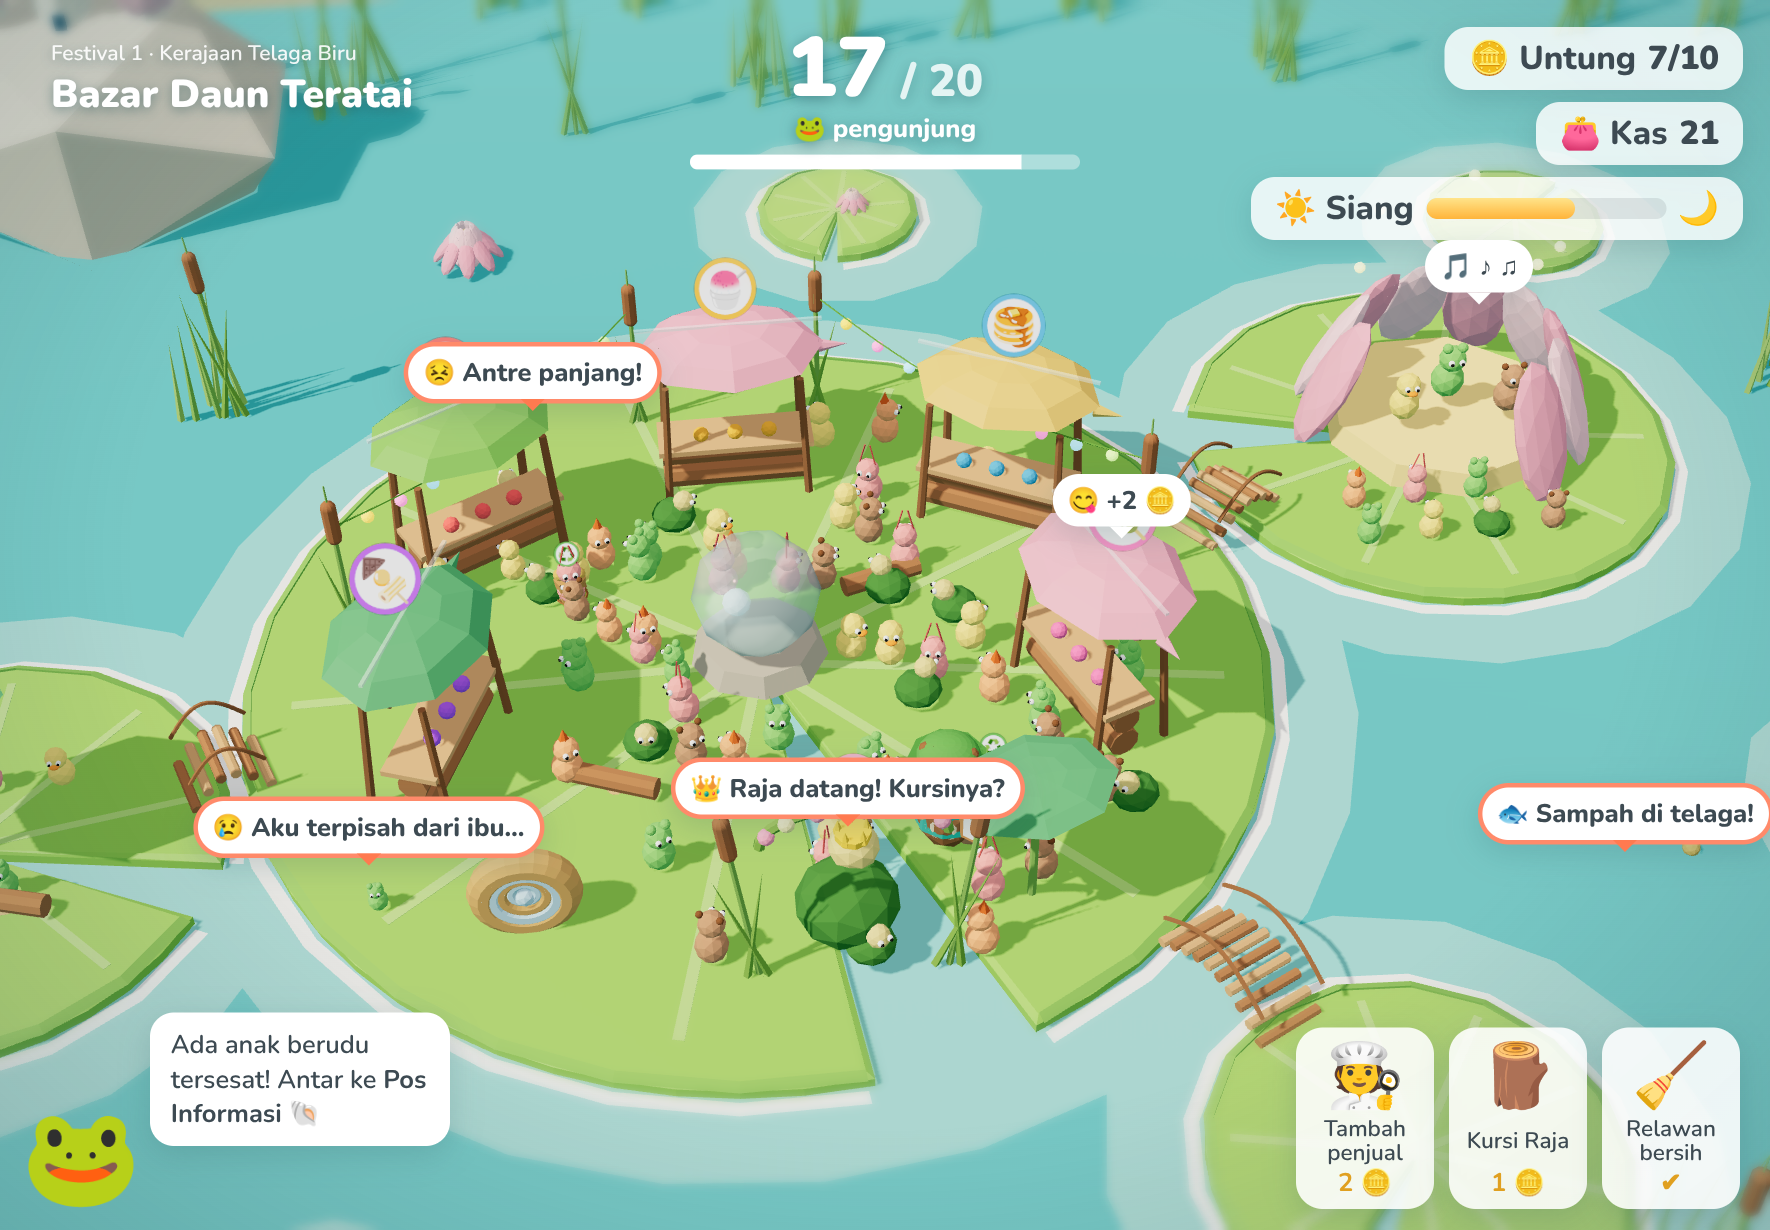
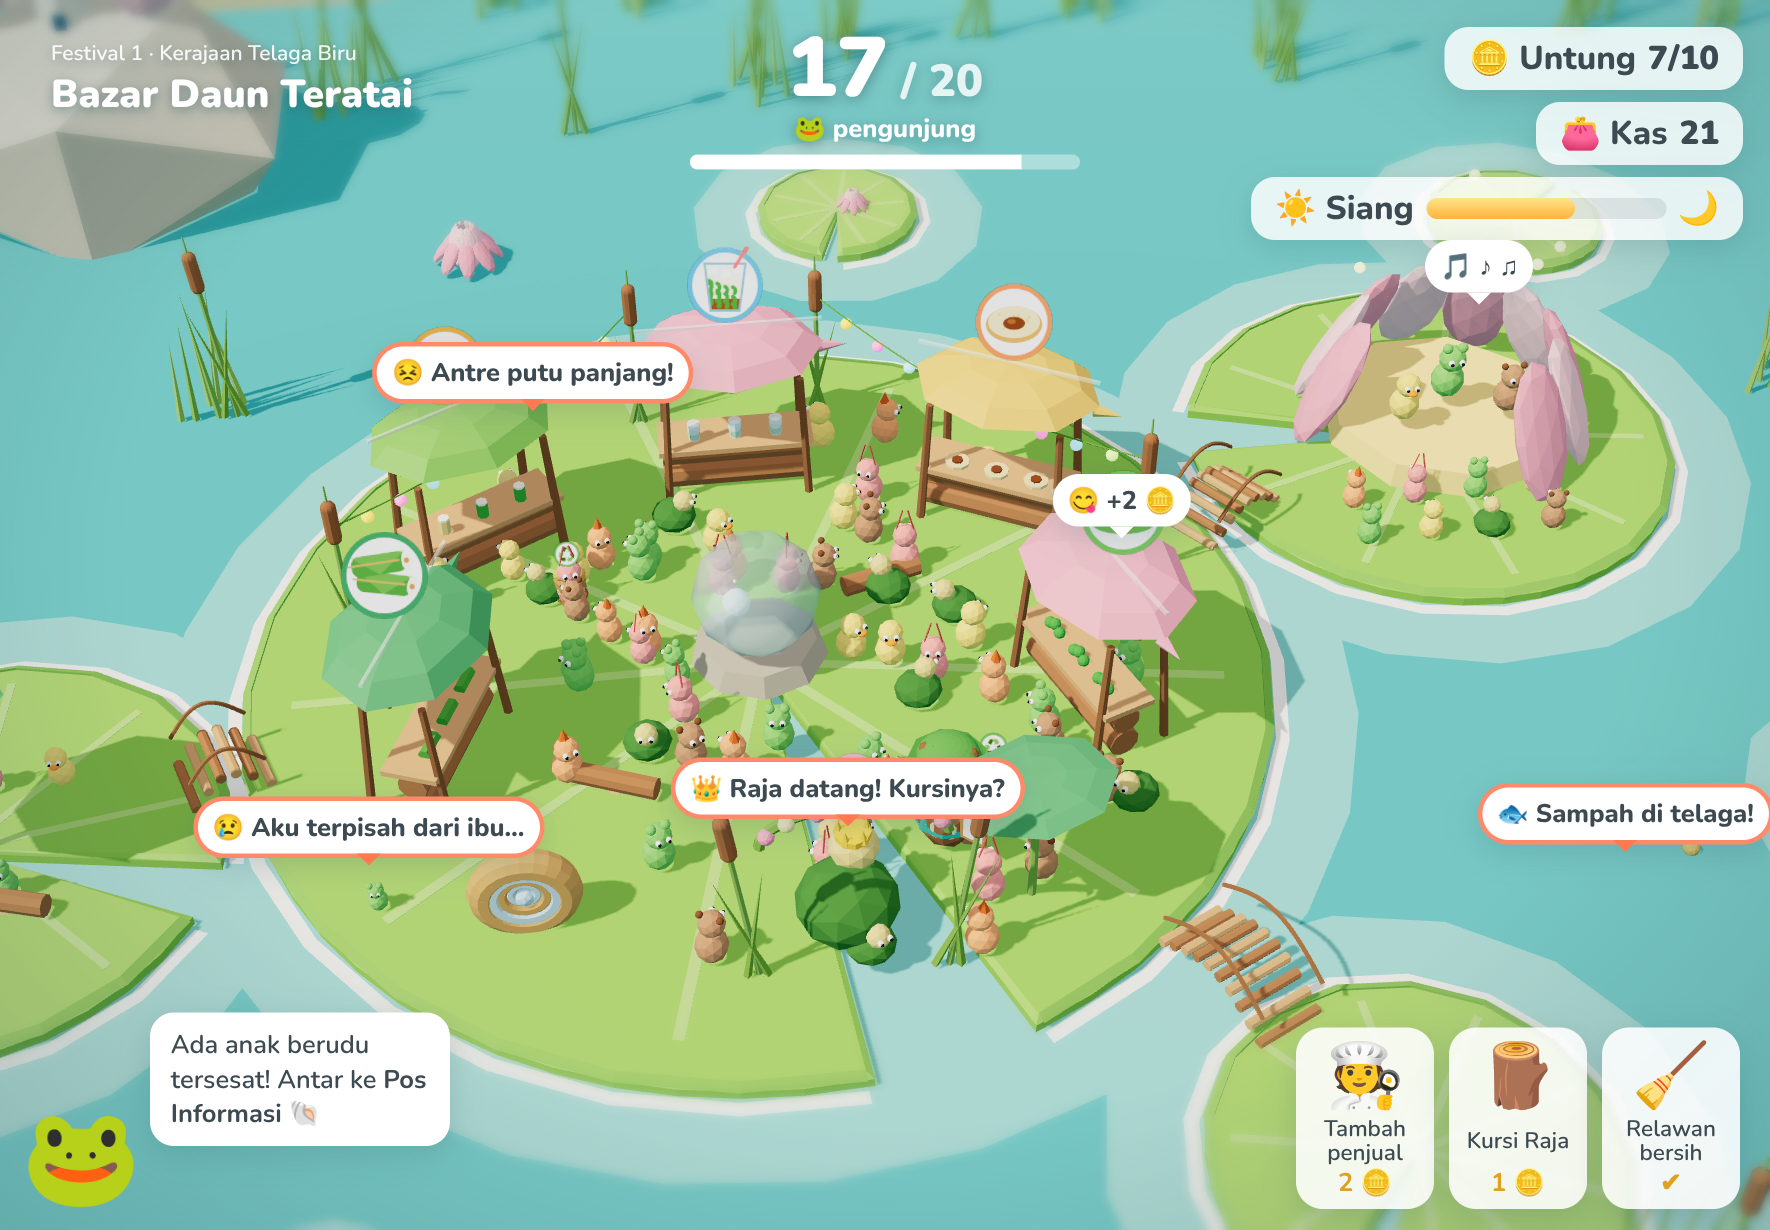
Mockup Festival Telaga: lapak jajanan khas Indonesia (klepon, putu bambu, lemper, serabi, es cendol)
Claude-Session: https://claude.ai/code/session_012A5oLvFCU8v62NfLHPHhyn

diff --git a/mockup-festival/islanders.html b/mockup-festival/islanders.html
@@ -7,6 +7,7 @@
 <link rel="stylesheet" href="base.css">
 <link rel="stylesheet" href="https://fonts.googleapis.com/css2?family=Nunito:wght@600;700;800;900&display=swap">
 <style>
+  .tabs { bottom: 160px !important; }
   body { font-family: 'Nunito', 'Fredoka', sans-serif; color: #3d4a52; background: #cdeeea; }
   #tilt-top, #tilt-bot { position: absolute; left: 0; right: 0; pointer-events: none; backdrop-filter: blur(3px); -webkit-backdrop-filter: blur(3px); }
   #tilt-top { top: 0; height: 200px; mask-image: linear-gradient(#000, transparent); -webkit-mask-image: linear-gradient(#000, transparent); }
@@ -159,7 +160,81 @@ function twig(x1, y1, z1, x2, y2, z2, r = 0.035, parent = scene, mat = twigM) {
   return m;
 }
 function log(x, y, z, len, r, rotY = 0, parent = scene) { const m = add(cyl(r, r, len, 12), bark, x, y, z, parent); m.rotation.z = Math.PI / 2; m.rotation.y = rotY; m.rotation.order = 'YXZ'; const e1 = add(cyl(r * 0.85, r * 0.85, 0.02, 12), M('#d9b07a'), 0, 0, 0, parent); return m; }
-const FOOD = { jagung: ['🌽', '#ff6b6b'], es: ['🍧', '#ffb43a'], serabi: ['🥞', '#4fb3e8'], sate: ['🍢', '#b26bff'], klepon: ['🍡', '#ff7ab8'] };
+const FOOD = { klepon: ['Klepon', '#5cb84f'], putu: ['Putu Bambu', '#e09a3a'], lemper: ['Lemper', '#3f9a62'], serabi: ['Serabi', '#f08a5a'], cendol: ['Es Cendol', '#4fb3e8'] };
+// ikon jajanan digambar sendiri (tidak ada emoji putu/lemper/cendol)
+function drawFood(x, kind, S = 128) {
+  const k = S / 128; x.save(); x.scale(k, k);
+  const leaf = (cx, cy, w, h) => { x.fillStyle = '#5aa845'; x.beginPath(); x.ellipse(cx, cy, w, h, 0, 0, 7); x.fill(); x.strokeStyle = '#8fd06a'; x.lineWidth = 3; x.beginPath(); x.moveTo(cx - w + 6, cy); x.lineTo(cx + w - 6, cy); x.stroke(); };
+  if (kind === 'klepon') {
+    leaf(64, 86, 46, 16);
+    for (const [cx, cy] of [[46, 74], [82, 74], [64, 58]]) {
+      x.fillStyle = '#3f9d3a'; x.beginPath(); x.arc(cx, cy, 17, 0, 7); x.fill();
+      x.fillStyle = '#6cc35a'; x.beginPath(); x.arc(cx - 5, cy - 5, 8, 0, 7); x.fill();
+      x.fillStyle = '#fff'; for (let i = 0; i < 9; i++) { const a = i * 2.4, r = 6 + (i % 3) * 4; x.fillRect(cx + Math.cos(a) * r - 2, cy + Math.sin(a) * r - 1, 4, 2); }
+    }
+  }
+  if (kind === 'putu') {
+    // tabung bambu + putu hijau bertabur kelapa, gula merah di tengah
+    x.fillStyle = '#e8cf8a'; x.fillRect(20, 46, 26, 54); x.fillStyle = '#c9a85e'; x.fillRect(20, 62, 26, 4); x.fillRect(20, 84, 26, 4);
+    x.fillStyle = '#d9bd72'; x.beginPath(); x.ellipse(33, 46, 13, 5, 0, 0, 7); x.fill();
+    for (const cx of [62, 92]) {
+      x.fillStyle = '#4fae49'; x.fillRect(cx - 13, 52, 26, 44); x.beginPath(); x.ellipse(cx, 96, 13, 5, 0, 0, 7); x.fill();
+      x.fillStyle = '#6cc35a'; x.beginPath(); x.ellipse(cx, 52, 13, 5, 0, 0, 7); x.fill();
+      x.fillStyle = '#8a4a22'; x.fillRect(cx - 13, 68, 26, 9);
+      x.fillStyle = '#fff'; x.beginPath(); x.ellipse(cx, 49, 12, 6, 0, 0, 7); x.fill();
+    }
+  }
+  if (kind === 'lemper') {
+    for (const [cx, cy, r] of [[64, 82, 0.1], [56, 54, -0.15]]) {
+      x.save(); x.translate(cx, cy); x.rotate(r);
+      x.fillStyle = '#4f9d3f'; x.beginPath(); x.roundRect(-40, -15, 80, 30, 12); x.fill();
+      x.fillStyle = '#7cc35a'; x.beginPath(); x.moveTo(-40, -15); x.lineTo(0, 15); x.lineTo(40, -15); x.closePath(); x.globalAlpha = .5; x.fill(); x.globalAlpha = 1;
+      x.fillStyle = '#fbf6e8'; x.beginPath(); x.ellipse(40, 0, 7, 14, 0, 0, 7); x.fill();
+      x.fillStyle = '#c98b55'; x.beginPath(); x.arc(40, 0, 4, 0, 7); x.fill();
+      x.strokeStyle = '#c9a85e'; x.lineWidth = 3; x.beginPath(); x.moveTo(-46, -2); x.lineTo(30, -2); x.stroke();
+      x.restore();
+    }
+  }
+  if (kind === 'serabi') {
+    x.fillStyle = '#d9a35a'; x.beginPath(); x.ellipse(64, 74, 46, 30, 0, 0, 7); x.fill();
+    x.fillStyle = '#f6e3b0'; x.beginPath(); x.ellipse(64, 70, 42, 26, 0, 0, 7); x.fill();
+    x.fillStyle = '#e9cf92'; for (let i = 0; i < 14; i++) { x.beginPath(); x.arc(40 + (i * 37) % 50, 58 + (i * 13) % 24, 2.5, 0, 7); x.fill(); }
+    x.fillStyle = '#8a4a22'; x.beginPath(); x.ellipse(64, 72, 18, 11, 0, 0, 7); x.fill();
+    x.fillStyle = '#b06a32'; x.beginPath(); x.ellipse(60, 69, 7, 4, 0, 0, 7); x.fill();
+  }
+  if (kind === 'cendol') {
+    const glass = () => { x.beginPath(); x.moveTo(30, 34); x.lineTo(98, 34); x.lineTo(88, 112); x.lineTo(40, 112); x.closePath(); };
+    x.save(); glass(); x.clip();
+    x.fillStyle = '#e8f6fb'; x.fillRect(20, 30, 90, 90);
+    x.fillStyle = '#9a5426'; x.fillRect(20, 92, 90, 24);            // gula merah
+    x.fillStyle = '#fbf3df'; x.fillRect(20, 56, 90, 36);            // santan
+    x.strokeStyle = '#3fa63c'; x.lineWidth = 7; x.lineCap = 'round'; // cendol
+    for (let i = 0; i < 14; i++) { const cx = 38 + (i * 13) % 52, cy = 62 + (i * 17) % 40; x.beginPath(); x.moveTo(cx, cy); x.quadraticCurveTo(cx + 6, cy + 3, cx + 3, cy + 10); x.stroke(); }
+    x.fillStyle = 'rgba(255,255,255,.85)'; x.fillRect(36, 38, 16, 14); x.fillRect(58, 42, 16, 14); x.fillRect(78, 37, 14, 14); // es batu
+    x.restore();
+    glass(); x.lineWidth = 4; x.strokeStyle = '#7fb3c9'; x.stroke();
+    x.strokeStyle = '#ff6b6b'; x.lineWidth = 6; x.lineCap = 'round'; x.beginPath(); x.moveTo(80, 40); x.lineTo(100, 8); x.stroke();
+  }
+  x.restore();
+}
+function foodTex(kind) {
+  const c = document.createElement('canvas'); c.width = c.height = 128; const x = c.getContext('2d');
+  const col = FOOD[kind][1]; x.fillStyle = '#fff'; x.beginPath(); x.arc(64, 64, 58, 0, 7); x.fill(); x.lineWidth = 8; x.strokeStyle = col; x.stroke();
+  x.save(); x.translate(64, 64); x.scale(1.0, 1.0); x.translate(-64, -70); drawFood(x, kind); x.restore();
+  const t = new THREE.CanvasTexture(c); t.colorSpace = THREE.SRGBColorSpace; return t;
+}
+function foodURL(kind, S = 96) { const c = document.createElement('canvas'); c.width = c.height = S; const x = c.getContext('2d'); x.translate(S / 2, S / 2); x.scale(1.3, 1.3); x.translate(-S / 2, -S * 0.56); drawFood(x, kind, S); return c.toDataURL(); }
+function tableFood(g, kind) {
+  for (let k = 0; k < 3; k++) {
+    const x = -0.36 + k * 0.36, y = 0.56, z = 0.3;
+    if (kind === 'klepon') for (let i = 0; i < 3; i++) add(sph(0.05), M('#4fae49'), x + (i - 1) * 0.07, y + (i === 1 ? 0.04 : 0), z, g);
+    if (kind === 'putu') { add(cyl(0.05, 0.05, 0.14, 7), M(k ? '#5cb84f' : '#e8cf8a'), x, y + 0.04, z, g); add(cyl(0.05, 0.05, 0.02, 7), M('#fbf6e8'), x, y + 0.12, z, g); }
+    if (kind === 'lemper') { const l = add(cyl(0.05, 0.05, 0.22, 6), M('#5aa845'), x, y, z, g); l.rotation.z = Math.PI / 2; }
+    if (kind === 'serabi') { add(cyl(0.11, 0.11, 0.03, 9), M('#f3d9a0'), x, y - 0.01, z, g); add(cyl(0.05, 0.05, 0.035, 7), M('#8a4a22'), x, y, z, g); }
+    if (kind === 'cendol') { add(cyl(0.06, 0.05, 0.18, 8), M('#dff4ff', { transparent: true, opacity: 0.8 }), x, y + 0.06, z, g); add(cyl(0.052, 0.047, 0.06, 8), M('#4fae49'), x, y + 0.02, z, g); add(cyl(0.056, 0.052, 0.05, 8), M('#fbf6e8'), x, y + 0.08, z, g); }
+  }
+}
+
 const ROOF = { daun: '#7cc35a', kelopak: '#f7a6bd', keringdaun: '#f0c46a', talas: '#5aae74' };
 function leafRoof(parent, col, w = 1.7, y = 1.25) {
   const g = new THREE.SphereGeometry(1, 8, 3, 0, Math.PI * 2, 0, Math.PI / 2.4);
@@ -171,7 +246,7 @@ function leafRoof(parent, col, w = 1.7, y = 1.25) {
 }
 function stall(x, z, food, roofKind = 'daun', rot = 0, ghost = false) {
   const g = new THREE.Group(); g.position.set(x, PADY, z); g.rotation.y = rot; g.scale.setScalar(1.45); scene.add(g);
-  const [e, col] = FOOD[food];
+  const col = FOOD[food][1];
   // meja dari dua batang kayu + papan kulit kayu
   log(0, 0.13, 0.25, 1.3, 0.13, 0, g); log(0, 0.37, 0.25, 1.3, 0.12, 0, g);
   add(box(1.36, 0.05, 0.45), barkL, 0, 0.51, 0.25, g);
@@ -181,10 +256,10 @@ function stall(x, z, food, roofKind = 'daun', rot = 0, ghost = false) {
   twig(-0.62, 1.22, 0.18, 0.62, 1.22, 0.18, 0.03, g);
   leafRoof(g, ROOF[roofKind]);
   // makanan di meja
-  for (let k = 0; k < 3; k++) add(sph(0.07), M(col), -0.3 + k * 0.3, 0.58, 0.3, g);
+  tableFood(g, food);
   if (ghost) g.traverse(o => { if (o.material) { o.material = o.material.clone(); o.material.transparent = true; o.material.opacity = 0.45; } });
   // papan nama: cangkang kerang air tawar
-  sprite(e, x, PADY + 2.75, z, 0.8, col);
+  { const sp = new THREE.Sprite(new THREE.SpriteMaterial({ map: foodTex(food), depthWrite: false })); sp.position.set(x, PADY + 2.8, z); sp.scale.setScalar(0.95); scene.add(sp); }
   return g;
 }
 function stageLotus(x, z, s = 1.6) {
@@ -386,10 +461,10 @@ function venue(mode) {
   ripple(-2, 9, 0.6); ripple(9, 10, 0.9);
 
   // lapak dari ranting & daun di daun utama
-  stall(-3.4, -2.6, 'jagung', 'daun', 0.5);
-  stall(0, -3.8, 'es', 'kelopak', 0);
+  stall(-3.4, -2.6, 'putu', 'daun', 0.5);
+  stall(0, -3.8, 'cendol', 'kelopak', 0);
   stall(3.4, -2.6, 'serabi', 'keringdaun', -0.5);
-  stall(-4.0, 1.0, 'sate', 'talas', 1.2);
+  stall(-4.0, 1.0, 'lemper', 'talas', 1.2);
   if (mode !== 'tata') stall(4.0, 1.0, 'klepon', 'kelopak', -1.2);
   dewdrop(0, -0.2, 1.4);
   basketBin(-2.2, -1.4, mode === 'festival'); basketBin(2.4, 2.4);
@@ -459,11 +534,11 @@ if (SCREEN === 'tata') {
   pt(3.4, PADY + 3.6, -2.6, '−1', 'terlalu dekat lapak lain', true);
   { const p = project(gx, PADY + 3.4, gz); el('+4', 'pt big', `left:${p.x}px;top:${p.y}px`); }
   el(`<div class="tab on">🌿 Lapak</div><div class="tab">🪷 Hiburan</div><div class="tab">🪵 Fasilitas</div><div class="tab">📣 Promosi</div>`, 'tabs');
-  el(`<div class="item"><div class="e">🌽</div><div class="n">Jagung</div><div class="p">3 🪙</div></div>
-      <div class="item sel"><div class="e">🍡</div><div class="n">Klepon</div><div class="p">3 🪙</div></div>
-      <div class="item"><div class="e">☂</div><div class="n">Daun Talas</div><div class="p">2 🪙</div></div>
-      <div class="item"><div class="e">🐚</div><div class="n">Pos Info</div><div class="p">2 🪙</div></div>
-      <div class="item"><div class="e">🪵</div><div class="n">Bangku</div><div class="p">1 🪙</div></div>`, 'tray');
+  el(`<div class="item sel"><div class="e"><img src="${foodURL('klepon')}" style="width:62px;height:62px"></div><div class="n">Klepon</div><div class="p">3 🪙</div></div>
+      <div class="item"><div class="e"><img src="${foodURL('putu')}" style="width:62px;height:62px"></div><div class="n">Putu Bambu</div><div class="p">3 🪙</div></div>
+      <div class="item"><div class="e"><img src="${foodURL('lemper')}" style="width:62px;height:62px"></div><div class="n">Lemper</div><div class="p">2 🪙</div></div>
+      <div class="item"><div class="e"><img src="${foodURL('serabi')}" style="width:62px;height:62px"></div><div class="n">Serabi</div><div class="p">2 🪙</div></div>
+      <div class="item"><div class="e"><img src="${foodURL('cendol')}" style="width:62px;height:62px"></div><div class="n">Es Cendol</div><div class="p">2 🪙</div></div>`, 'tray');
   kikoSay('Lingkaran putih = jangkauan lapak. Cari tempat dengan angka <b>+</b> paling besar!');
   el('Siap ✔', 'go');
 }
@@ -481,7 +556,7 @@ if (SCREEN === 'festival') {
   render();
   hud(17, 20, 7, 10, 21);
   el(`☀ Siang <span class="bar" style="width:160px"><i style="width:62%;background:linear-gradient(#ffe48a,#ffb43a)"></i></span> 🌙`, 'pill', 'right:18px;top:118px');
-  bub(-2.4, PADY + 2.6, -2.0, '😣 Antre panjang!', true);
+  bub(-2.4, PADY + 2.6, -2.0, '😣 Antre putu panjang!', true);
   bub(0.6, PADY + 1.6, 4.0, '👑 Raja datang! Kursinya?', true);
   bub(-4.4, PADY + 0.8, 3.2, '😢 Aku terpisah dari ibu…', true);
   bub(9.0, 0.6, 4.4, '🐟 Sampah di telaga!', true);
@@ -524,7 +599,7 @@ if (SCREEN === 'jurus') {
     heroOtter(-1.6, -1.2, 2.2).rotation.y = 0.6;
     // jembatan baru ke daun baru (bersinar) + lapak rusak yang diperbaiki
     pad(-0.9, -9.4, 2.2, Math.PI * 1.4, '#69bf55'); twigBridge([-1.6, -5.6], [-1.4, -7.1]);
-    stall(-1.0, -9.8, 'jagung', 'keringdaun', 0);
+    stall(-1.0, -9.8, 'putu', 'keringdaun', 0);
     for (let k = 0; k < 14; k++) add(sph(0.09), M('#fff3a0', { emissive: '#fff08a', emissiveIntensity: 1 }), -1.4 + Math.cos(k) * 1.4, 0.9 + (k % 4) * 0.3, -7.3 + Math.sin(k * 1.7) * 1.0).castShadow = false;
     render();
     hud(15, 20, 9, 10, 18);
@@ -559,6 +634,20 @@ if (SCREEN === 'jurus') {
     el(`<svg width="84" height="70" viewBox="0 0 84 70"><ellipse cx="26" cy="22" rx="22" ry="8" fill="#bfefff" opacity=".85" transform="rotate(-15 26 22)"/><ellipse cx="58" cy="22" rx="22" ry="8" fill="#bfefff" opacity=".85" transform="rotate(15 58 22)"/><ellipse cx="28" cy="36" rx="18" ry="6" fill="#d9f6ff" opacity=".85" transform="rotate(12 28 36)"/><ellipse cx="56" cy="36" rx="18" ry="6" fill="#d9f6ff" opacity=".85" transform="rotate(-12 56 36)"/><rect x="38" y="24" width="8" height="40" rx="4" fill="#3fb6a8"/><circle cx="42" cy="20" r="9" fill="#3fb6a8"/><circle cx="38" cy="18" r="3.4" fill="#fff"/><circle cx="46" cy="18" r="3.4" fill="#fff"/><circle cx="38.5" cy="18.5" r="1.6" fill="#222"/><circle cx="46.5" cy="18.5" r="1.6" fill="#222"/></svg><div class="say"><b>Capung Cici:</b> Tiga masalah beres sekaligus! Tamu makin senang ⭐</div>`, 'kiko');
     btn('⚡', 'Lompat Kilat', 'terpakai ✔');
   }
+}
+if (SCREEN === 'jajan') {
+  scene.fog = null;
+  pad(0, 0, 6.2, -Math.PI / 2 + 0.3);
+  cattail(-7, -2, 3.2, 0.1); cattail(7.2, -1.5, 2.8, -0.1); reeds(-7.4, -1, 8, 2); reeds(7.6, -2, 7, 5); lotus(-6.5, 3.5, 1.2, 0.05); lotus(6.8, 3.2, 1.0, 0.05);
+  const L = [['klepon', 'kelopak'], ['putu', 'daun'], ['lemper', 'talas'], ['serabi', 'keringdaun'], ['cendol', 'kelopak']];
+  const xs = [-4.4, -2.2, 0, 2.2, 4.4], zs = [0.6, -0.6, 0.9, -0.6, 0.6];
+  L.forEach(([f, r], k) => stall(xs[k], zs[k], f, r, 0));
+  heroOtter(-1.1, 2.6, 2.0); critter('bebek', 1.2, PADY, 2.4, 1.8); critter('kodok', 3.2, PADY, 2.2, 1.8); critter('kura', -3.3, PADY, 2.4, 1.8);
+  cam.fov = 30; cam.updateProjectionMatrix(); cam.position.set(0, 8.5, 15.5); cam.lookAt(0, 0.6, 0); cam.updateMatrixWorld();
+  render();
+  el(`<b>🪷 Jajanan Festival Telaga</b><small>Lapak jajanan khas Indonesia</small>`, 'card title');
+  const info = [['Klepon', 'bola hijau isi gula merah, tabur kelapa'], ['Putu Bambu', 'dikukus dalam bambu, gula merah & kelapa'], ['Lemper', 'nasi ketan isi ayam, dibungkus daun pisang'], ['Serabi', 'kue bundar dengan kuah gula merah (kinca)'], ['Es Cendol', 'cendol hijau, santan & gula merah']];
+  info.forEach(([n, d], k) => { const p = project(xs[k], 0, zs[k] + 1.2); el(`<img src="${foodURL(L[k][0], 72)}" style="width:60px;height:60px;display:block;margin:0 auto"><b>${n}</b><small>${d}</small>`, 'mat', `left:${p.x}px;top:625px;width:200px;white-space:normal;text-align:center;transform:translate(-50%,0)`); });
 }
 document.body.dataset.ready = '1';
 </script>
